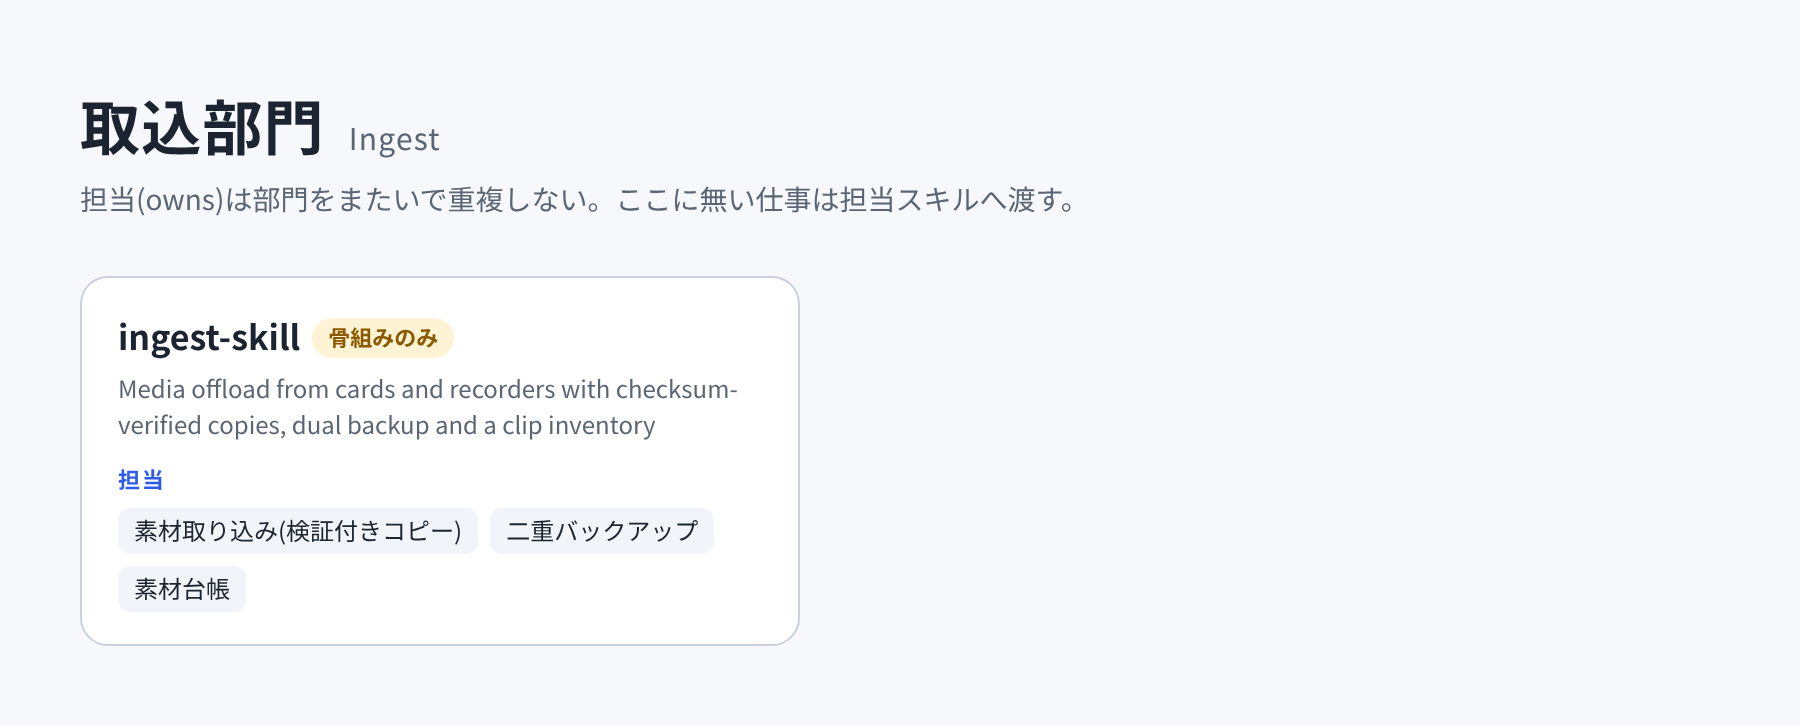
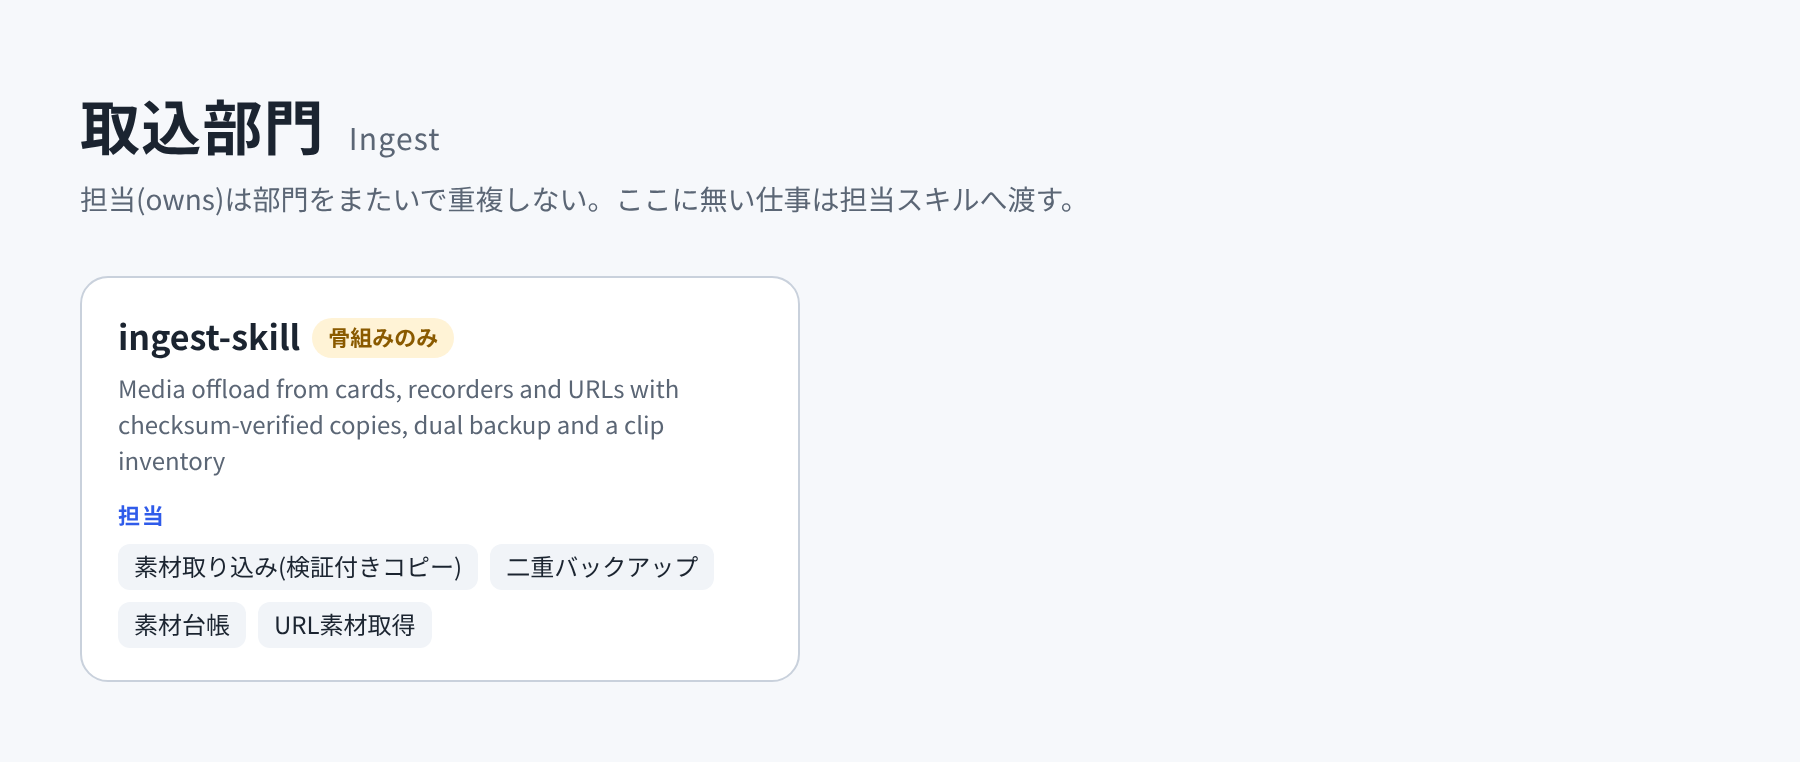
docs: record the owner's decisions on translation, platform specs, URL download and NLEs (#80)
* Make MATURITY_MODEL.md level 6 (Distributed) a real live check

Replace the "documented distribution claim = level 6 met" shortcut with a
live lookup against npm's/PyPI's own public registry API
(dashboard/aggregator/src/packageRegistry.ts). capability-status.json still
names which registry/package to check, but no longer gets to assert level 6
by itself -- a failed live lookup reports UNKNOWN, never a silent pass.

- packageRegistry.ts: fetchLatestNpmVersion/fetchLatestPypiVersion/fetchLatestVersion
- maturity.ts: level 6 evidence now requires distributionLookup.version to
  actually resolve; explicit UNKNOWN (not false) when the lookup fails
- normalize.ts/index.ts/generate-example-snapshot.ts: thread the live lookup
  result through buildRepoStatus() and populate distribution.latestVersion
- 9 new tests (8 mocked + 1 real unmocked network call against the real npm
  registry for ffmpeg-skill), 3 rewritten maturity tests for the new level 6
  behavior -- full aggregator suite 49/49, web suite 12/12
- dashboard/README.md, MATURITY_MODEL.md: mark this gap resolved

Claude-Session: https://claude.ai/code/session_01TdkXAJ5yMz9qKodK2f5S7i

* registry: formalize CapabilityContract shape as a JSON Schema file

Closes docs/ROADMAP.md Phase 1 item 1's remaining gap: the full aspirational
CapabilityContract shape (docs/SPEC.md section 1) was only prose plus
registry.contract's narrow, real-world Python validation -- no standalone
.schema.json existed.
[…]

diff --git a/docs/ecosystem/ROADMAP.md b/docs/ecosystem/ROADMAP.md
@@ -73,8 +73,8 @@ Neither vendor ships a desktop MCP server. Community servers exist. Verified on 
 2. Claude imports the files through the NLE's MCP server (Resolve `ImportTimelineFromFile` / Premiere OTIO import), adds markers and queues the render. The agent's MCP server and the NLE's server sit side by side in the same chat app.
 3. Later, the human's edit comes back: the NLE exports OTIO, and the agent reads it as a new plan version.
 
-**Build vs reuse.**
-- **Reuse:** live NLE control. Don't fork the community servers. Pin a version, keep eval and script tools off, and opt out of telemetry where it exists.
+**Build vs reuse.** Neither NLE is available yet (see Decided), so the interchange files come first and live control waits.
+- **Later, reuse:** live NLE control. Don't fork the community servers. Pin a version, keep eval and script tools off, and opt out of telemetry where it exists.
 - **Build, first in the agent:** `timeline_export` through ffmpeg-skill `render --export-timeline` (agent step 4). No new repository is needed for that.
 - **Build, later as `nle-bridge-skill`:** round-trip ingest, FCP7 XML for Premiere, relink manifests and conform packages. This is `planned` in `ecosystem.json`; the repository does not exist yet.
 
@@ -125,17 +125,22 @@ Neither vendor ships a desktop MCP server. Community servers exist. Verified on 
    - system-intelligence reads ecosystem.json ownership and the contracts.
    - skillpact conformance runs as a non-blocking OS job.
 
+## Decided by the owner (2026-10-30)
+
+| Question | Decision |
+|---|---|
+| Who translates subtitles (字幕翻訳)? | **subtitle-skill**, as `ecosystem.json` already says. Its README's "translation is out of scope" is corrected. The MT engine gets an ADR in subtitle-skill. Dubbing builds on it. |
+| Who owns the platform specs (配信プラットフォーム仕様)? | **ffmpeg-skill** keeps the table (`_platforms.py`; nothing in ffmpeg-skill changes). publish-skill reads it and owns only upload-side limits (アップロード制限: file size, duration, rate limits). |
+| Who owns URL download (URL素材取得)? | **ingest-skill**. The agent's own yt-dlp call moves there; until then the agent keeps it. |
+| Premiere / Resolve | Neither is available here. Build the **interchange files** first (OTIO, FCP7 XML, SRT), which open in either NLE later. Live control through the community MCP servers waits until the software is at hand. |
+
 ## Decisions only the owner can make
 
 | Question | Options |
 |---|---|
-| Who translates subtitles (字幕翻訳)? | subtitle-skill README says out of scope; ecosystem.json says it owns it. Keep it there and choose an MT engine, or move the job. Dubbing waits on this. |
-| Who owns the platform specs (配信プラットフォーム仕様)? | The table lives in ffmpeg-skill `_platforms.py`. Recommendation: publish-skill reads it and owns only upload-side limits. |
-| Who owns URL download? | Today the agent calls yt-dlp itself. Options: ingest-skill, or keep it in the agent. |
 | Compliance checking | Recommendation: qc-skill judges against the spec, and ffmpeg-skill `check` is the engine's preflight. Record that split. |
 | Overlay / PiP / titles | The jobs are split by name. video-editing owns still overlay, motion-graphics owns titles, and ffmpeg-skill owns B-roll and screen compositing. Templates in remotion and hyperframes stay inside their own compositions. |
 | Engines for voice-enhance, diarization, detection, SFX | Each gets an ADR in its repo. The candidates listed there are unverified until that ADR checks the licences of both code and weights. |
-| Resolve Studio / Premiere 25.6+ | Required for live control; interchange files work without them. |
 
 ## Tracking in the GitHub Project
 

diff --git a/plugins/video-production-os/skills/video-production-os/SKILL.md b/plugins/video-production-os/skills/video-production-os/SKILL.md
@@ -21,8 +21,8 @@ Never claim a result is verified, measured or approved unless a skill or the age
 | Skill | Department | Owns |
 |---|---|---|
 | `video-production-agent` | 司令塔 | 制作計画, スキルの呼び分け, 制作記録(ProductionReceipt) |
-| `ingest-skill` (scaffold) | 取込 | 素材取り込み(検証付きコピー), 二重バックアップ, 素材台帳 |
-| `ffmpeg-skill` | エンジン | FFmpeg実行, 書き出し規格の検査, マルチカム同期, Bロール・画面合成, 手ぶれ・傾き補正, プレビュー・縮小一覧, 納品レポート |
+| `ingest-skill` (scaffold) | 取込 | 素材取り込み(検証付きコピー), 二重バックアップ, 素材台帳, URL素材取得 |
+| `ffmpeg-skill` | エンジン | FFmpeg実行, 書き出し規格の検査, マルチカム同期, Bロール・画面合成, 手ぶれ・傾き補正, プレビュー・縮小一覧, 納品レポート, 配信プラットフォーム仕様 |
 | `video-editing-skill` | 映像 | カット・連結, 尺・画角合わせ, トランジション, 静止画オーバーレイ |
 | `color-grading-skill` | 映像 | 色補正, LUT, HDR→SDR |
 | `motion-graphics-skill` | 映像 | タイトル・テロップ |
@@ -42,7 +42,7 @@ Never claim a result is verified, measured or approved unless a skill or the age
 | `qc-skill` | 検証 | 規格判定(QC) |
 | `media-analysis-skill` | 検証 | メディア計測 |
 | `artifacts-skill` | 検証 | 生成文書の検証 |
-| `publish-skill` (scaffold) -- CLI only, no skill yet | 納品 | 配信先アップロード, 配信プラットフォーム仕様 |
+| `publish-skill` (scaffold) -- CLI only, no skill yet | 納品 | 配信先アップロード, アップロード制限 |
 | `bdmvkit` (optional) -- CLI only, no skill yet | 納品 | Blu-ray作成 |
 | `vtskit` (optional) -- CLI only, no skill yet | 納品 | DVD-Video作成 |
 | `udfkit` (optional) -- CLI only, no skill yet | 納品 | ディスクイメージ(UDF) |
